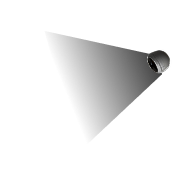
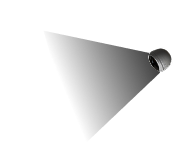
123

diff --git a/src/components/sections/SmartHome.tsx b/src/components/sections/SmartHome.tsx
@@ -66,7 +66,7 @@ function LivingRoom() {
 
 	return (
 		<div className={`living-zone ${enabled && 'dark-theme'}`}>
-			<span className={`living-cctv transition-all duration-400 ${enabled && 'brightness-30'}`}>
+			<span className={`living-cctv transition-all duration-400 ${enabled && 'brightness-50'}`}>
 				<Image src="/images/smarthome/cctv.png" width={85} height={78} alt="" />
 			</span>
 
@@ -231,7 +231,7 @@ export default function SmartHome() {
 				</div>
 
 				<div className="garage-zone">
-					<span className={`garage-cctv transition-all duration-400 ${enabled ? 'brightness-30' : ''}`}>
+					<span className={`garage-cctv transition-all duration-400 ${enabled ? 'brightness-50' : ''}`}>
 						<Image src="/images/smarthome/cctv.png" width={85} height={78} alt="" />
 					</span>
 
